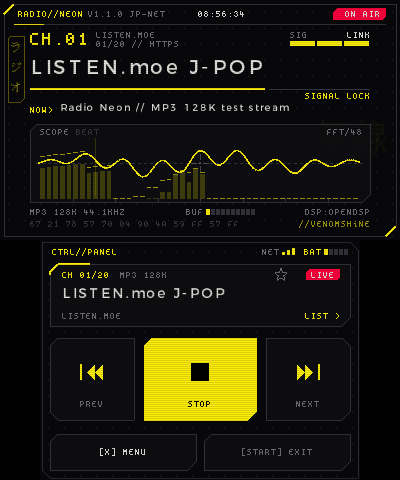
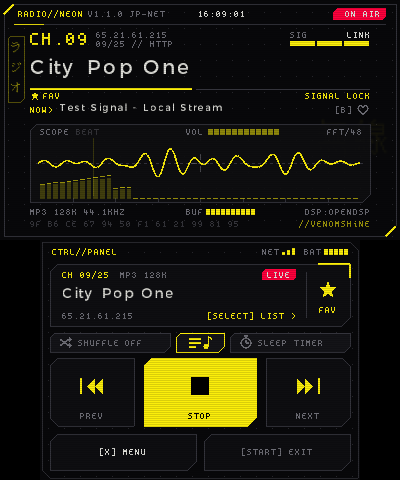
README y CHANGELOG para publicar la 1.1.0, con capturas nuevas
- Capturas de la 1.1.0 rehechas con todo lo nuevo, interfaz en inglés
  (la fuente de Azahar rompe las tildes): pantalla principal, lista con
  géneros, historial con QR de Spotify, página del móvil, temporizador,
  batería baja, opciones, «Acerca de», reintento de red y acento rojo. Se
  quitan las de antes de estos cambios; la de arranque con OpenDSP sigue.
  El audio de las capturas es una emisora de prueba local y el pie lo
  dice; el historial son canciones que sonaron de verdad en esas
  emisoras.
- Radio de «música japonesa» (no todas las emisoras emiten desde Japón).
- La lista de serie antigua se actualiza sola (stations.old.txt) y cómo
  se genera la página del móvil.
- CHANGELOG ordenado: lo nuevo y grande primero.

diff --git a/README.md b/README.md
@@ -8,14 +8,16 @@ Hecho por **VENOMSHiNE** · [Discord](https://discord.com/invite/yVKp8JwV4e) · 
 
 | | | |
 |:-:|:-:|:-:|
-| ![On air](docs/screenshots/02_on_air.png) | ![Station list](docs/screenshots/04_station_list.png) | ![Menu](docs/screenshots/05_menu.png) |
-| ON AIR | Station list / Lista | Menu / Menú |
-| ![Options](docs/screenshots/06_options.png) | ![About](docs/screenshots/08_about_qr.png) | ![Network retry](docs/screenshots/10_network_retry.png) |
+| ![On air](docs/screenshots/02_on_air.png) | ![Station list](docs/screenshots/03_station_list.png) | ![Song history](docs/screenshots/04_song_history.png) |
+| ON AIR | Station list / Lista | Song history + Spotify QR / Historial |
+| ![Phone page](docs/screenshots/05_phone_page.png) | ![Sleep timer](docs/screenshots/06_sleep_timer.png) | ![Low battery](docs/screenshots/11_low_battery.png) |
+| Phone page / Página del móvil | Sleep timer / Temporizador | Low battery / Batería baja |
+| ![Options](docs/screenshots/07_options.png) | ![About](docs/screenshots/08_about_qr.png) | ![Network retry](docs/screenshots/09_network_retry.png) |
 | Options / Opciones | About + QR / Acerca de | Network retry / Reintento |
-| ![Boot](docs/screenshots/01_boot_opendsp.png) | ![Red accent](docs/screenshots/11_accent_red.png) | ![UV accent](docs/screenshots/12_accent_uv.png) |
-| OpenDSP boot / Arranque | Red / Rojo | UV purple / Morado UV |
+| ![Boot](docs/screenshots/01_boot_opendsp.png) | ![Red accent](docs/screenshots/10_accent_red.png) | |
+| OpenDSP boot / Arranque | Red accent / Rojo | |
 
-<sub>Capturas de la 1.1.0 en Azahar con la interfaz en inglés · 1.1.0 screenshots in Azahar, English UI. Más / more: [docs/screenshots](docs/screenshots) · 1.0.0: [docs/screenshots-1.0.0](docs/screenshots-1.0.0)</sub>
+<sub>Capturas de la 1.1.0 en Azahar con la interfaz en inglés; el audio es una emisora de prueba local («Test Signal») · 1.1.0 screenshots in Azahar, English UI; the audio is a local test stream. Más / more: [docs/screenshots](docs/screenshots) · 1.0.0: [docs/screenshots-1.0.0](docs/screenshots-1.0.0)</sub>
 
 [Español](#español) · [English](#english)
 
@@ -23,7 +25,7 @@ Hecho por **VENOMSHiNE** · [Discord](https://discord.com/invite/yVKp8JwV4e) · 
 
 ## Español
 
-Radio Neon convierte tu 3DS en una radio de emisoras japonesas: J-POP, anime, city pop, clásica, FM locales y noticias. Tiene una estética HUD cyberpunk sobria, con fondo negro carbón y un solo color de acento a tu elección.
+Radio Neon convierte tu 3DS en una radio de música japonesa: J-POP, anime, city pop, eurobeat, J-rock, FM locales de Japón y mucho más. Tiene una estética HUD cyberpunk sobria, con fondo negro carbón y un solo color de acento a tu elección.
 
 ### Funciones
 
@@ -75,7 +77,7 @@ Todo se puede hacer también con la pantalla táctil. El volumen se controla con
 
 ### Archivos en la SD (`sdmc:/3ds/RadioNeon/`)
 
-- `stations.txt`: las emisoras, una por línea con el formato `Nombre | URL | Género` (el género es opcional); `#` es un comentario. Si lo borras, se vuelve a crear con la lista por defecto. Formatos: MP3 y AAC/AAC+ (ADTS). No se admiten Ogg/Opus, HLS (`.m3u8`) ni listas `.pls`/`.m3u`: pon la URL directa del stream.
+- `stations.txt`: las emisoras, una por línea con el formato `Nombre | URL | Género` (el género es opcional); `#` es un comentario. Si lo borras, se vuelve a crear con la lista por defecto; si era la lista de serie de una versión anterior y no la habías tocado, se actualiza sola y la vieja queda en `stations.old.txt`. Formatos: MP3 y AAC/AAC+ (ADTS). No se admiten Ogg/Opus, HLS (`.m3u8`) ni listas `.pls`/`.m3u`: pon la URL directa del stream.
 - `favorites.txt`: tus favoritas (una URL por línea).
 - `history.txt`: el historial de canciones (las últimas 200; las guardadas con ♥ no se borran).
 - `config.ini`: las opciones.
@@ -96,7 +98,7 @@ make                 # RadioNeon.3dsx
 ./build_cia.sh       # RadioNeon.cia (bannertool + makerom)
 ```
 
-Los gráficos del icono y del banner se generan con `tools/gen_art.py`. El sonido del HOME es `meta/banner_src.wav` (el original), convertido a `meta/banner.wav` (estéreo PCM16 a 32728 Hz) con `tools/banner_wav.py`.
+La página del móvil es `web/history.html`: después de cambiarla, `tools/build_web.sh` la comprueba y la deja comprimida en `romfs/web/history.html.gz`. Los gráficos del icono y del banner se generan con `tools/gen_art.py`. El sonido del HOME es `meta/banner_src.wav` (el original), convertido a `meta/banner.wav` (estéreo PCM16 a 32728 Hz) con `tools/banner_wav.py`.
 
 ### Licencia
 
@@ -106,7 +108,7 @@ Radio Neon está bajo la **Mozilla Public License 2.0** ([LICENSE](LICENSE)). En
 
 ## English
 
-Radio Neon turns your 3DS into a radio for Japanese stations: J-POP, anime, city pop, classical, local FM and news. It has a clean cyberpunk HUD look, with a carbon-black background and a single accent colour of your choice.
+Radio Neon turns your 3DS into a radio for Japanese music: J-POP, anime, city pop, eurobeat, J-rock, local FM from Japan and much more. It has a clean cyberpunk HUD look, with a carbon-black background and a single accent colour of your choice.
 
 ### Features
 
@@ -158,7 +160,7 @@ Everything also works with the touch screen. Volume is the console's slider.
 
 ### Files on the SD card (`sdmc:/3ds/RadioNeon/`)
 
-- `stations.txt`: one station per line as `Name | URL | Genre` (the genre is optional); `#` starts a comment. Delete it to get the default list back. Formats: MP3 and AAC/AAC+ (ADTS). Ogg/Opus, HLS (`.m3u8`) and `.pls`/`.m3u` playlists are not supported: use the direct stream URL.
+- `stations.txt`: one station per line as `Name | URL | Genre` (the genre is optional); `#` starts a comment. Delete it to get the default list back; if it was an untouched built-in list from an older version, it is updated by itself and the old one is kept as `stations.old.txt`. Formats: MP3 and AAC/AAC+ (ADTS). Ogg/Opus, HLS (`.m3u8`) and `.pls`/`.m3u` playlists are not supported: use the direct stream URL.
 - `favorites.txt`: your favourites (one URL per line).
 - `history.txt`: the song history (the last 200; songs saved with ♥ are never dropped).
 - `config.ini`: the options.
@@ -179,7 +181,7 @@ make                 # RadioNeon.3dsx
 ./build_cia.sh       # RadioNeon.cia (bannertool + makerom)
 ```
 
-Icon and banner art: `tools/gen_art.py`; HOME menu sound: `meta/banner_src.wav` (original), converted to `meta/banner.wav` (stereo PCM16, 32728 Hz) by `tools/banner_wav.py`.
+The phone page is `web/history.html`: after editing it, `tools/build_web.sh` checks it and writes the compressed `romfs/web/history.html.gz`. Icon and banner art: `tools/gen_art.py`; HOME menu sound: `meta/banner_src.wav` (original), converted to `meta/banner.wav` (stereo PCM16, 32728 Hz) by `tools/banner_wav.py`.
 
 ### License
 

diff --git a/CHANGELOG.md b/CHANGELOG.md
@@ -19,17 +19,17 @@
 - La estrella de favorita tiene su propia columna en la tarjeta, con «FAV» debajo.
 
 ### Novedades
+- **Historial de canciones** (↓ o el botón del centro), con una página para el móvil (QR, misma Wi-Fi o hotspot) con botones de Spotify, YouTube Music y Copiar, y QR de Spotify de cada canción. **B** guarda con ♥ la que suena, con un bip-bip al estilo del sonido del HOME.
+- **Aviso de batería baja**: bips cortos desde el 40 % y el 20 %, pausa con aviso al 10 %, y al 3 % la radio queda bloqueada con un cartel fijo hasta conectar el cargador.
+- **Temporizador de apagado** (botón o R): 15, 30, 60, 90 minutos o personalizado, con fundido de 10 s al final.
+- **Aleatorio** en la pantalla principal (botón o L): NEXT salta a una emisora al azar.
+- **Barra de volumen** en la pantalla de arriba: sigue al deslizador de la consola y muestra el % al moverlo.
+- Lista de emisoras renovada: más radios de Japón (FMかほく, WREP, Gotanno FM, Retro PC Game Music…), dos de eurobeat, FLY FM de city pop, J-Rock, Visual Kei y VocaloPlus!. Si tu `stations.txt` era la lista de serie sin cambios, se actualiza sola y la anterior queda en `stations.old.txt`.
+- Género de cada emisora en la lista y en favoritas (`Nombre | URL | Género` en `stations.txt`).
+- SELECT abre la lista de emisoras.
 - HTTPS con verificación de certificados (raíces de Mozilla).
 - La red se reintenta sola sin límite y muestra el motivo real y la cuenta atrás.
 - `net.log` en la SD para diagnosticar.
-- **Aleatorio** en la pantalla principal (botón o L): NEXT salta a una emisora al azar.
-- **Temporizador de apagado** (botón o R): 15, 30, 60, 90 minutos o personalizado, con fundido de 10 s al final.
-- SELECT abre la lista de emisoras.
-- **Historial de canciones** (↓ o el botón del centro), con una página para el móvil (QR, misma Wi-Fi o hotspot) con botones de Spotify, YouTube Music y Copiar, y QR de Spotify de cada canción. **B** guarda con ♥ la que suena, con un bip-bip al estilo del sonido del HOME.
-- Lista de emisoras renovada: más radios de Japón (FMかほく, WREP, Gotanno FM, Retro PC Game Music…), dos de eurobeat, FLY FM de city pop, J-Rock, Visual Kei y VocaloPlus!. Si tu `stations.txt` era la lista de serie sin cambios, se actualiza sola y la anterior queda en `stations.old.txt`.
-- Género de cada emisora en la lista y en favoritas (`Nombre | URL | Género` en `stations.txt`).
-- Aviso de batería baja: bips cortos desde el 40 % y el 20 %, pausa con aviso al 10 %, y al 3 % la radio queda bloqueada con un cartel fijo hasta conectar el cargador.
-- Barra de volumen en la pantalla de arriba: sigue al deslizador de la consola y muestra el % al moverlo.
 - Controles revisados: cada botón hace una sola cosa y solo donde tiene sentido.
 - «Acerca de» con QR de GitHub, Discord y Ko-fi y créditos que suben.
 - Datos reales en el HUD (servidor, HTTP/HTTPS, códec y bitrate, bytes reales del stream) en lugar de frecuencias inventadas.
@@ -39,6 +39,7 @@
 - Nombre definitivo **Radio Neon** (`RadioNeon.cia` / `.3dsx`, carpeta `sdmc:/3ds/RadioNeon`, migrada sola).
 - `config.ini` y `favorites.txt` se escriben de forma segura.
 - Licencia MPL-2.0.
+- Vocales mayúsculas con tilde (Á É Í Ó Ú) en la fuente del HUD, como ya tenía la Ñ.
 
 ## 1.0.0
 
